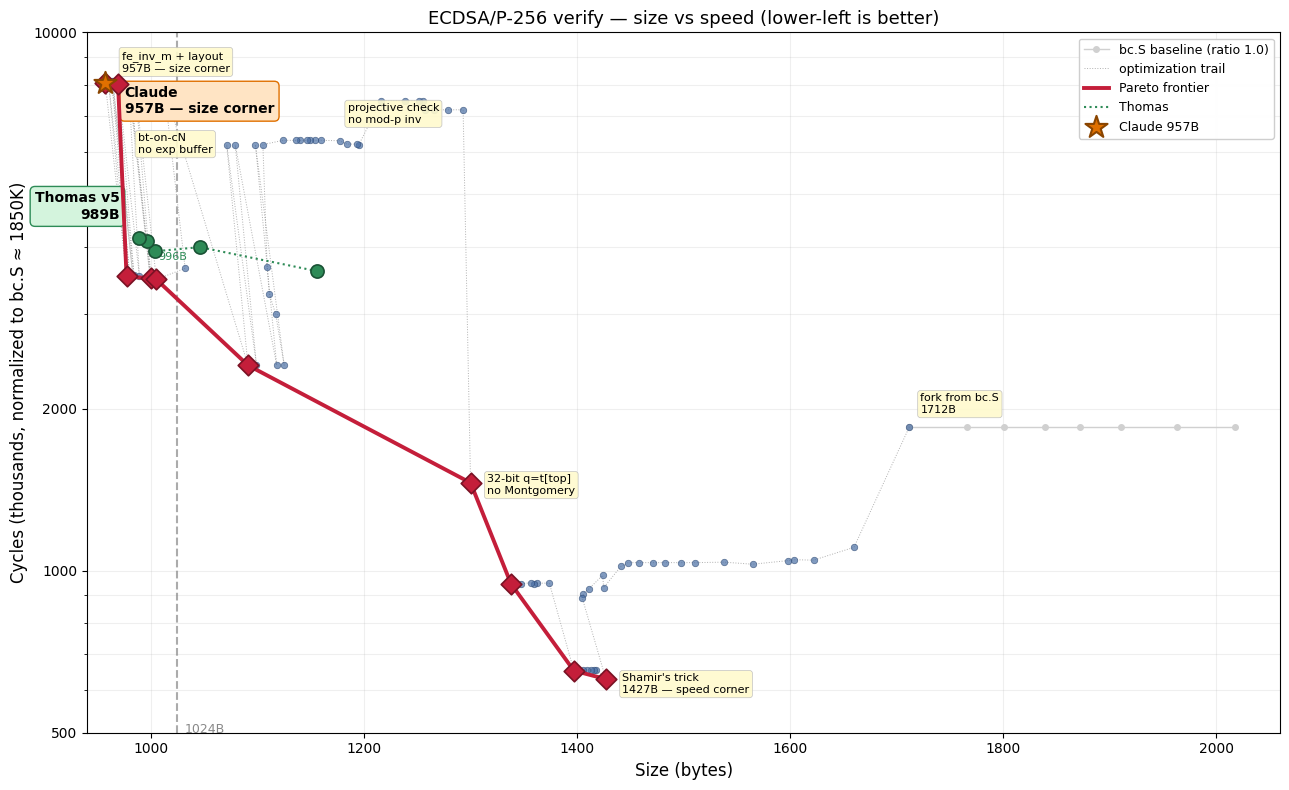
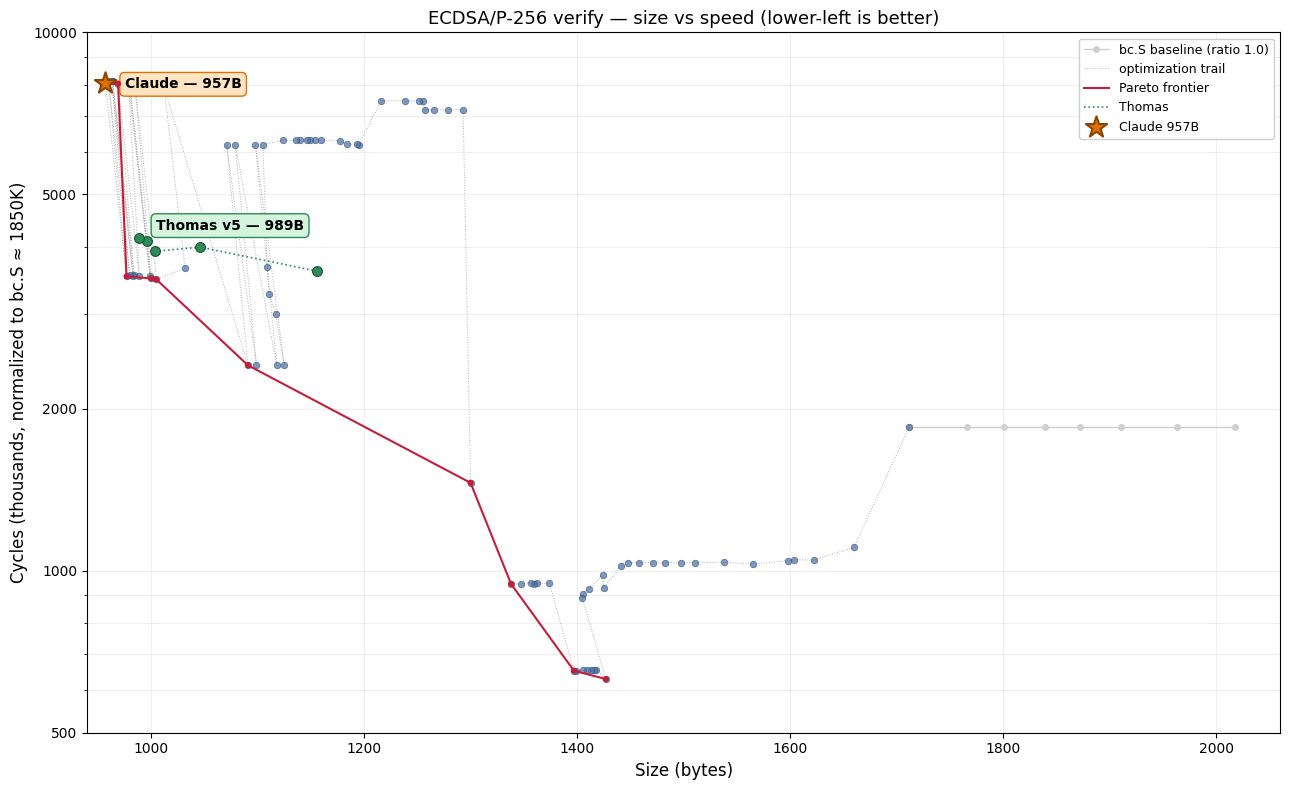
Chart cleanup: thin frontier, two annotations only, drop 1024 target
The frontier is dense on the left (many sub-1000B points separated
by single bytes) — big diamonds piled into an unreadable blob.
Thin line + small dots let the curve read.

Dropped: all turning-point labels (fork, Shamir, 32-bit, etc.),
the 1024B target line (passed), the small secondary Thomas label.
Kept: Claude star at 957B, Thomas v5 at 989B.

Bonus: correcting cycle numbers to medians also cleaned up the
frontier itself — several intermediate points (960, 980, 983, 984)
that looked Pareto under noisy single-shot numbers are now
dominated.  10 points on the frontier, down from 13.

diff --git a/docs/plot_history.py b/docs/plot_history.py
@@ -85,7 +85,6 @@ THOMAS_TRACK = [(1156, 3600), (1046, 3990), (1004, 3920), (996, 4100),
                 (989, 4150)]
 THOMAS    = (989, 4150)     # latest — still dominated
 CLAUDE    = (957, 8060)     # size corner — 32 B under Thomas v5
-TARGET    = 1024
 
 def pareto(pts):
     front = []
@@ -114,66 +113,38 @@ ax.plot(tx, ty, ':', color='#b0b0b0', linewidth=0.7, zorder=2,
 ax.scatter(tx, ty, c='#4a6fa5', s=22, edgecolors='#2a4670',
            linewidths=0.5, zorder=3, alpha=0.7)
 
-# Pareto frontier — bold red
+# Pareto frontier — thin line, small dots.  The frontier is dense on the
+# left (many sub-1000B points separated by single bytes), so big diamonds
+# just pile into a blob.  Small markers + thin line let the curve read.
 px = [ALL_XY[i][0] for i in FRONT]
 py = [ALL_XY[i][1] for i in FRONT]
-ax.plot(px, py, '-', color='#c41e3a', linewidth=2.8, zorder=4,
+ax.plot(px, py, '-', color='#c41e3a', linewidth=1.5, zorder=4,
         label='Pareto frontier')
-ax.scatter(px, py, c='#c41e3a', s=110, marker='D',
-           edgecolors='#7a1225', linewidths=1.2, zorder=5)
+ax.scatter(px, py, c='#c41e3a', s=20, marker='o',
+           edgecolors='none', zorder=5)
 
-# Thomas track — 4 points.  v3/v4 (1004B, 996B) RETAKE the size corner,
-# both under 1024, both faster than our SMALL_MUL8.  v1/v2 dominated.
+# Thomas track.  v5 is his latest; all 5 points dominated.
 ttx = [p[0] for p in THOMAS_TRACK]
 tty = [p[1] for p in THOMAS_TRACK]
-ax.plot(ttx, tty, ':', color='#2e8b57', linewidth=1.5, zorder=4,
+ax.plot(ttx, tty, ':', color='#2e8b57', linewidth=1.2, zorder=4,
         label='Thomas')
-ax.scatter(ttx, tty, c='#2e8b57', s=90, marker='o',
-           edgecolors='#1a5235', linewidths=1.2, zorder=5)
-ax.annotate(f'Thomas v5\n{THOMAS[0]}B', THOMAS,
-            textcoords="offset points", xytext=(-14, 14), fontsize=10,
-            fontweight='bold', ha='right',
+ax.scatter(ttx, tty, c='#2e8b57', s=50, marker='o',
+           edgecolors='#1a5235', linewidths=0.8, zorder=5)
+ax.annotate(f'Thomas v5 — {THOMAS[0]}B', THOMAS,
+            textcoords="offset points", xytext=(12, 6), fontsize=10,
+            fontweight='bold',
             bbox=dict(boxstyle='round,pad=0.35', fc='#d4f4dd',
             ec='#2e8b57', lw=1))
-ax.annotate(f'{THOMAS_TRACK[3][0]}B', THOMAS_TRACK[3],
-            textcoords="offset points", xytext=(8, -14), fontsize=8,
-            color='#2e8b57')
 
-# Claude star — size corner, 11 B under Thomas v4.
-ax.scatter([CLAUDE[0]], [CLAUDE[1]], c='#e07000', s=280, marker='*',
+# Size corner — the one annotation that matters.
+ax.scatter([CLAUDE[0]], [CLAUDE[1]], c='#e07000', s=260, marker='*',
            edgecolors='#8a4500', linewidths=1.5, zorder=6,
            label=f'Claude {CLAUDE[0]}B')
-ax.annotate(f'Claude\n{CLAUDE[0]}B — size corner',
-            CLAUDE, textcoords="offset points", xytext=(14, -22),
+ax.annotate(f'Claude — {CLAUDE[0]}B',
+            CLAUDE, textcoords="offset points", xytext=(14, -4),
             fontsize=10, fontweight='bold',
             bbox=dict(boxstyle='round,pad=0.35', fc='#ffe4c4',
                       ec='#e07000', lw=1))
-
-# 1024 B target line — both Thomas and Claude now past it.
-ax.axvline(TARGET, color='#888', linestyle='--', linewidth=1.5,
-           alpha=0.7, zorder=1)
-ax.annotate(f'{TARGET}B', (TARGET, 500),
-            textcoords="offset points", xytext=(6, 0), fontsize=9,
-            color='#888')
-
-# Turning-point labels only — the path, not every step
-LABEL_OFFSETS = {
-    "fork":       (8, 10),
-    "Shamir":     (12, -10),
-    "32-bit":     (12, -8),
-    "projective": (-8, 16),
-    "bt-on-cN":   (-90, -6),
-    "RCB":        (12, -10),
-    "addend":     (12, 12),
-    "fe_inv_m":   (12, 8),
-}
-for b, c, lab in TRAIL:
-    if lab:
-        key = next((k for k in LABEL_OFFSETS if lab.lower().startswith(k.lower())), None)
-        dx, dy = LABEL_OFFSETS.get(key, (10, 8))
-        ax.annotate(lab, (b, c), textcoords="offset points", xytext=(dx, dy),
-                    fontsize=8, bbox=dict(boxstyle='round,pad=0.25',
-                    fc='#fffacd', ec='#bbb', lw=0.5, alpha=0.9))
 
 ax.set_xlabel('Size (bytes)', fontsize=12)
 ax.set_ylabel('Cycles (thousands, normalized to bc.S ≈ 1850K)', fontsize=12)
